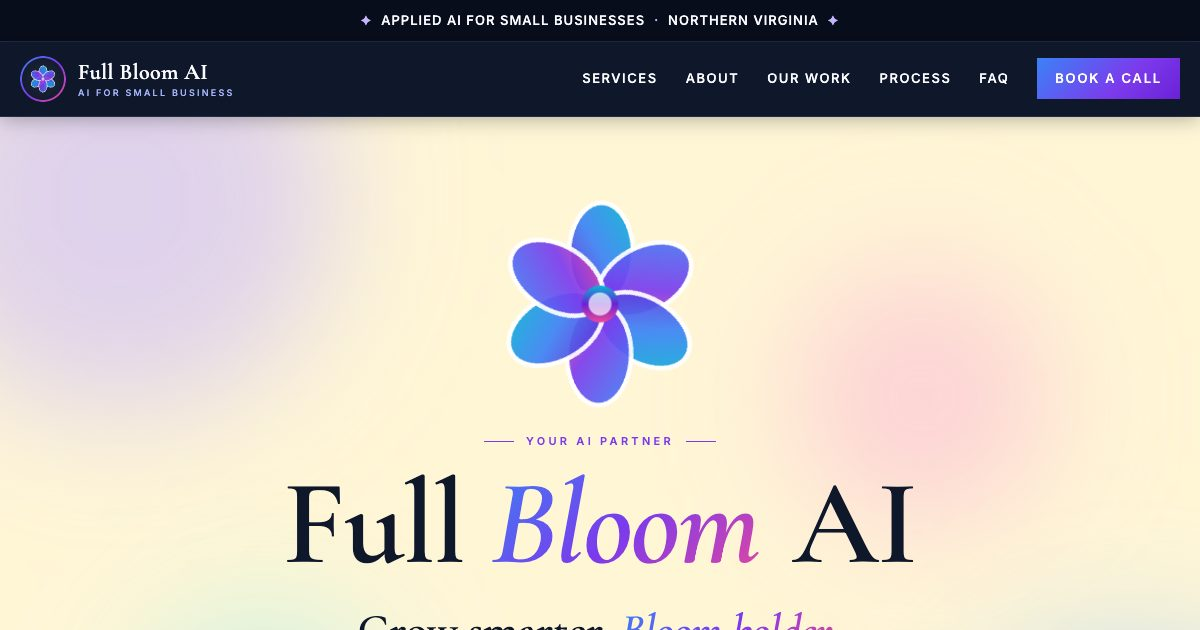
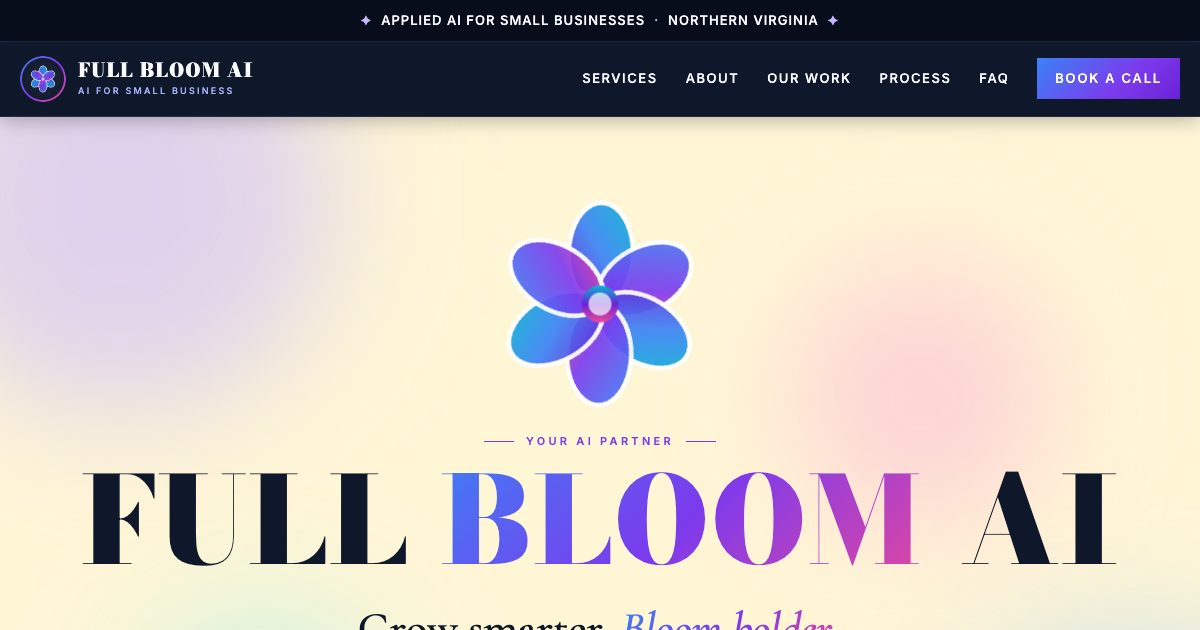
Bold all-caps Bodoni wordmark for the Full Bloom AI name
- Hero name is FULL BLOOM AI in Bodoni Moda Black, up to 132px on
  desktop, stacked on phones so it stays large
- Header, footer and About panel use the same wordmark

diff --git a/src/index.css b/src/index.css
@@ -19,7 +19,7 @@
   --gradient-accent: linear-gradient(135deg, #3b82f6 0%, #7c3aed 50%, #ec4899 100%);
   --gradient-glow: linear-gradient(135deg, #60a5fa 0%, #a78bfa 55%, #f472b6 100%);
   --serif: 'Cormorant Garamond', 'Times New Roman', serif;
-  --brand: 'Cormorant Garamond', 'Times New Roman', serif;
+  --brand: 'Bodoni Moda', 'Didot', 'Times New Roman', serif;
   --sans: 'Inter', -apple-system, BlinkMacSystemFont, sans-serif;
 }
 
@@ -109,9 +109,10 @@ header {
 }
 .brand-text {
   font-family: var(--brand);
-  font-size: 22px;
-  font-weight: 600;
-  letter-spacing: 0.02em;
+  font-size: 19px;
+  font-weight: 900;
+  text-transform: uppercase;
+  letter-spacing: 0.06em;
   line-height: 1.1;
 }
 .brand-text small {
@@ -243,20 +244,26 @@ header {
 
 .hero-name {
   font-family: var(--brand);
-  font-size: clamp(3.4rem, 11vw, 7.5rem);
-  font-weight: 600;
-  line-height: 1;
-  letter-spacing: -0.01em;
+  font-size: clamp(2.3rem, 10vw, 8.25rem);
+  font-weight: 900;
+  text-transform: uppercase;
+  line-height: 0.95;
+  letter-spacing: 0.01em;
   color: var(--navy);
-  margin-bottom: 22px;
+  margin-bottom: 26px;
+  white-space: nowrap;
 }
 .hero-name span {
-  font-style: italic;
   background: var(--gradient-accent);
   -webkit-background-clip: text;
   background-clip: text;
   -webkit-text-fill-color: transparent;
   padding-right: 0.06em;
+}
+.hero-name b { font-weight: inherit; }
+@media (max-width: 600px) {
+  .hero-name { font-size: clamp(2.4rem, 12.4vw, 3.6rem); line-height: 1; }
+  .hero-name b { display: block; margin-top: 4px; }
 }
 .hero-eyebrow {
   display: inline-flex;
@@ -525,8 +532,10 @@ section { padding: 80px 20px; scroll-margin-top: 70px; }
   right: 0;
   text-align: center;
   font-family: var(--brand);
-  font-weight: 600;
-  font-size: clamp(1.8rem, 5vw, 2.6rem);
+  font-weight: 900;
+  text-transform: uppercase;
+  letter-spacing: 0.05em;
+  font-size: clamp(1.5rem, 4vw, 2.2rem);
   color: #fff;
 }
 .story-visual svg { width: 46%; height: auto; margin-bottom: 40px; filter: drop-shadow(0 12px 40px rgba(124, 58, 237, 0.45)); }
@@ -807,10 +816,11 @@ footer {
 .footer-brand { display: inline-flex; align-items: center; gap: 12px; margin-bottom: 10px; }
 .footer-logo {
   font-family: var(--brand);
-  font-size: 2rem;
+  font-size: 1.9rem;
   color: #fff;
-  font-weight: 600;
-  letter-spacing: 0.02em;
+  font-weight: 900;
+  text-transform: uppercase;
+  letter-spacing: 0.05em;
 }
 .footer-tag {
   font-size: 11px;

diff --git a/index.html b/index.html
@@ -29,7 +29,7 @@
   <!-- Fonts -->
   <link rel="preconnect" href="https://fonts.googleapis.com" />
   <link rel="preconnect" href="https://fonts.gstatic.com" crossorigin />
-  <link href="https://fonts.googleapis.com/css2?family=Cormorant+Garamond:ital,wght@0,400;0,500;0,600;0,700;1,400;1,500;1,600&family=Inter:wght@300;400;500;600&display=swap" rel="stylesheet" />
+  <link href="https://fonts.googleapis.com/css2?family=Bodoni+Moda:opsz,wght@6..96,800;6..96,900&family=Cormorant+Garamond:ital,wght@0,400;0,500;0,600;0,700;1,400;1,500;1,600&family=Inter:wght@300;400;500;600&display=swap" rel="stylesheet" />
 
   <!-- ProfessionalService JSON-LD -->
   <script type="application/ld+json">

diff --git a/src/components/Hero.jsx b/src/components/Hero.jsx
@@ -40,7 +40,7 @@ export default function Hero() {
       <div className="hero-inner">
         <BloomingFlower />
         <div className="hero-eyebrow">Your AI Partner</div>
-        <h1 className="hero-name">Full <span>Bloom</span> AI</h1>
+        <h1 className="hero-name">Full <span>Bloom</span> <b>AI</b></h1>
         <p className="hero-tagline">Grow smarter. <em>Bloom bolder.</em></p>
         <p className="hero-sub">
           We help small businesses harness the power of AI — no jargon, no overwhelm, no six-figure budget. Just real transformation.
